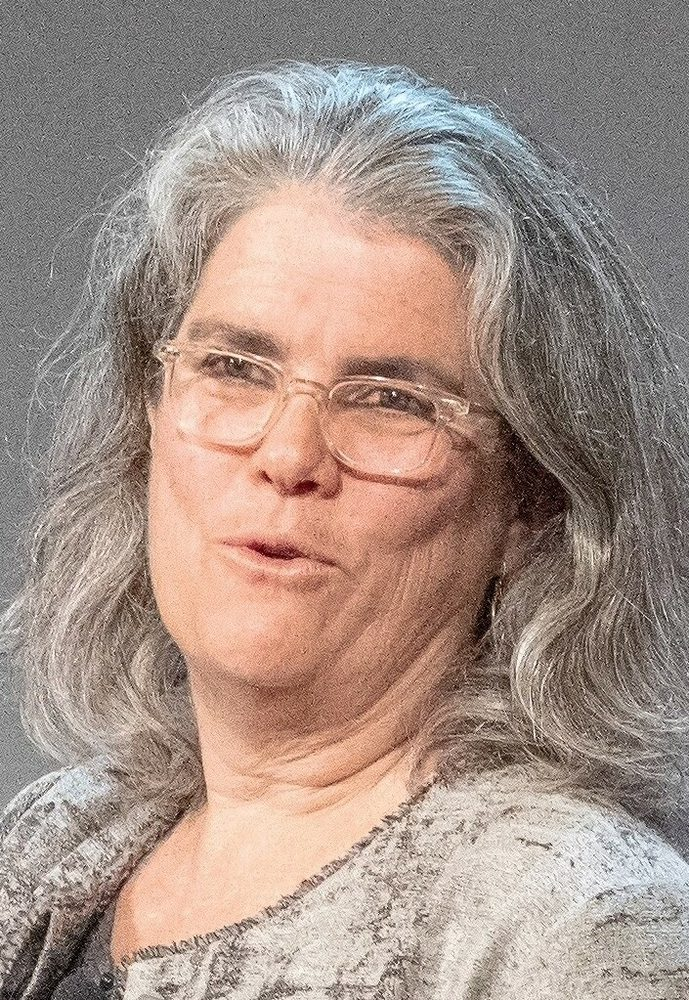
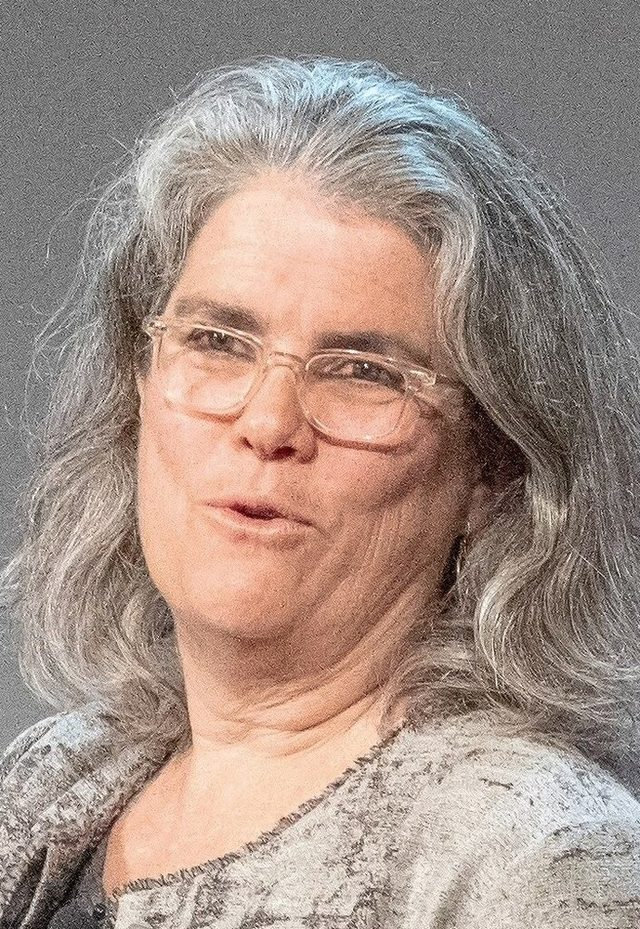
Prechargement des photos + photos compressees

Changed region(s): [[0.7812, 0.718, 0.8125, 0.7492]]

diff --git a/frontend/src/ui.js b/frontend/src/ui.js
@@ -94,7 +94,7 @@ export const CATEGORIES = [
   { key: 'rugby', label: 'Rugby', icon: '\u{1F3C9}', grad: 'g44', tag: '\u{1F4F8}', desc: 'Devine la légende du rugby', family: 'sport', cover: '/images/quizphotos/rugby/antoine_dupont.jpg' },
   { key: 'boxe', label: 'Boxe', icon: '\u{1F94A}', grad: 'g45', tag: '\u{1F4F8}', desc: 'Devine le champion de boxe', family: 'sport', cover: '/images/quizphotos/boxe/mohamed_ali.jpg' },
   { key: 'athletisme', label: 'Athlétisme', icon: '\u{1F3C3}', grad: 'g46', tag: '\u{1F4F8}', desc: "Devine la légende de l'athlé", family: 'sport', cover: '/images/quizphotos/athletisme/usain_bolt.jpg' },
-  { key: 'science_stars', label: 'Savants Célèbres', icon: '\u{1F52C}', grad: 'g47', tag: '\u{1F4F8}', desc: 'Devine le grand scientifique', family: 'culture', cover: '/images/quizphotos/science/leonard_de_vinci.png' },
+  { key: 'science_stars', label: 'Savants Célèbres', icon: '\u{1F52C}', grad: 'g47', tag: '\u{1F4F8}', desc: 'Devine le grand scientifique', family: 'culture', cover: '/images/quizphotos/science/leonard_de_vinci.webp' },
   { key: 'humour', label: 'Humour', icon: '\u{1F602}', grad: 'g48', tag: '\u{1F4F8}', desc: 'Devine la légende comique', family: 'entertainment', cover: '/images/quizphotos/humour/charlie_chaplin.jpg' },
   { key: 'mode', label: 'Mode', icon: '\u{1F483}', grad: 'g49', tag: '\u{1F4F8}', desc: "Devine l'icône de mode", family: 'entertainment', cover: '/images/quizphotos/mode/marilyn_monroe.jpg' },
   { key: 'kpop', label: 'K-pop', icon: '\u{1F1F0}\u{1F1F7}', grad: 'g50', tag: '\u{1F4F8}', desc: 'Devine la star ou le groupe K-pop', family: 'music', cover: '/images/quizphotos/kpop/rm.jpg' },

diff --git a/backend/game.js b/backend/game.js
@@ -142,6 +142,14 @@ async function startGame(rawPlayers, categoryKey) {
   }
 }
 
+// Photos of this round and the next one, sent with the round intro so the
+// browser downloads them before the question appears.
+function upcomingImages(game, round) {
+  return [game.questions[round], game.questions[round + 1]]
+    .map((q) => (q && q.image) || null)
+    .filter(Boolean);
+}
+
 function nextQuestion(game) {
   if (game.status !== 'active') return;
   if (game.roundTimer) clearTimeout(game.roundTimer);
@@ -159,6 +167,7 @@ function nextQuestion(game) {
       type: 'round_intro', round: nextRound + 1,
       totalRounds: game.questions.length,
       category: q.category, icon: q.icon, difficulty: q.difficulty, isBonus: isFinal,
+      preloadImages: upcomingImages(game, nextRound),
     });
   });
 
@@ -341,6 +350,7 @@ function sendCurrentState(game, player) {
       totalRounds: game.questions.length,
       category: q.category, icon: q.icon,
       isBonus: game.currentRound === game.questions.length - 1,
+      preloadImages: upcomingImages(game, game.currentRound),
     });
   } else if (game.phase === 'question') {
     const elapsed = performance.now() - game.questionStart;

diff --git a/frontend/src/App.js b/frontend/src/App.js
@@ -87,6 +87,8 @@ export default function App() {
   const [leaderboardReturn, setLeaderboardReturn] = useState('profile');
   const leaderboardCategoryRef = useRef(null);
   const tickRef = useRef(null);
+  // Keeps preloading <img> objects alive until their download finishes.
+  const preloadedImagesRef = useRef(new Map());
   const copyTimerRef = useRef(null);
   const pendingTimerRef = useRef(null);
   const toastTimerRef = useRef(null);
@@ -430,6 +432,17 @@ export default function App() {
         setStage('playing');
         break;
       case 'round_intro':
+        if (Array.isArray(data.preloadImages)) {
+          const cache = preloadedImagesRef.current;
+          data.preloadImages.forEach((src) => {
+            if (typeof src !== 'string' || cache.has(src)) return;
+            const img = new window.Image();
+            img.decoding = 'async';
+            img.src = src;
+            cache.set(src, img);
+            if (cache.size > 40) cache.delete(cache.keys().next().value);
+          });
+        }
         if (data.isBonus) SFX.bonusIntro(); else SFX.roundIntro();
         setIntro(data);
         setQuestion(null);
